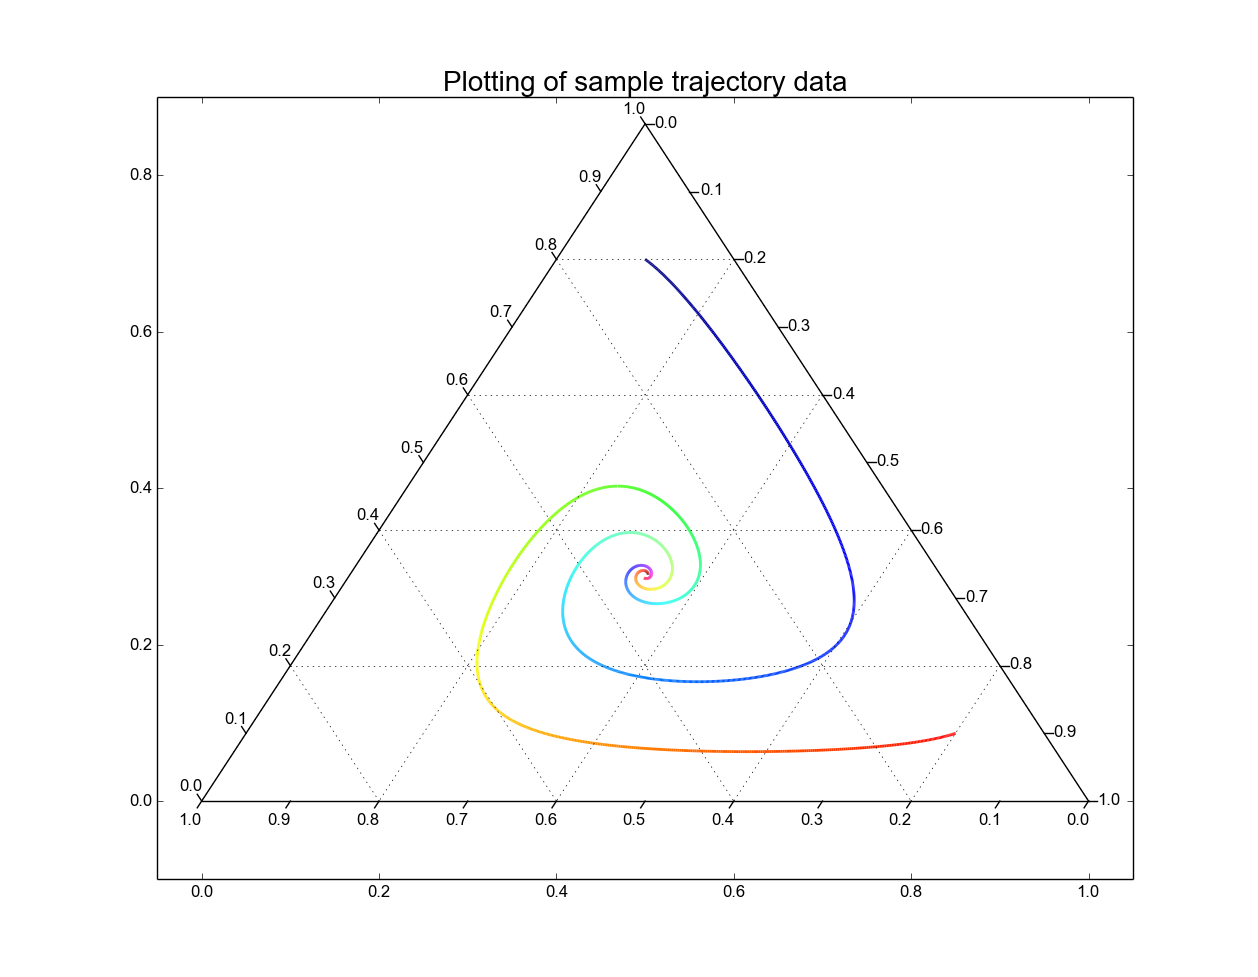
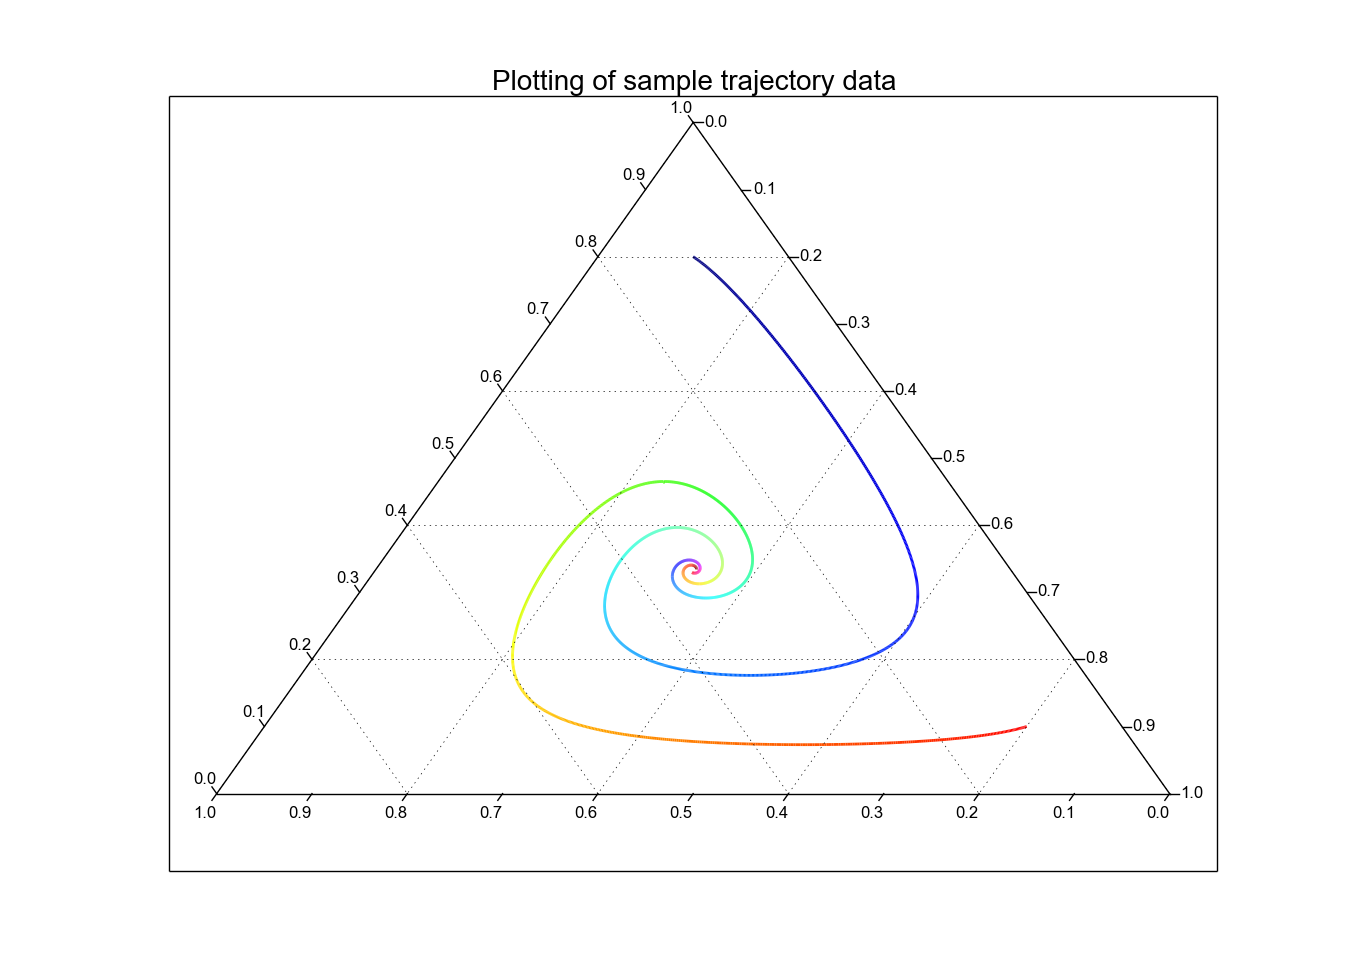
Update readme image

diff --git a/examples.py b/examples.py
@@ -173,7 +173,7 @@ if __name__ == '__main__':
     points = [(y,z,x) for (x,y,z) in points]
     tax.plot_colored_trajectory(points, cmap="hsv", linewidth=2.0)
     tax.legend()
-    ternary_ax.clear_matplotlib_ticks()
+    tax.clear_matplotlib_ticks()
     tax.ticks(axis='lbr', color="black", linewidth=1, multiple=0.1)
 
     pyplot.show()
